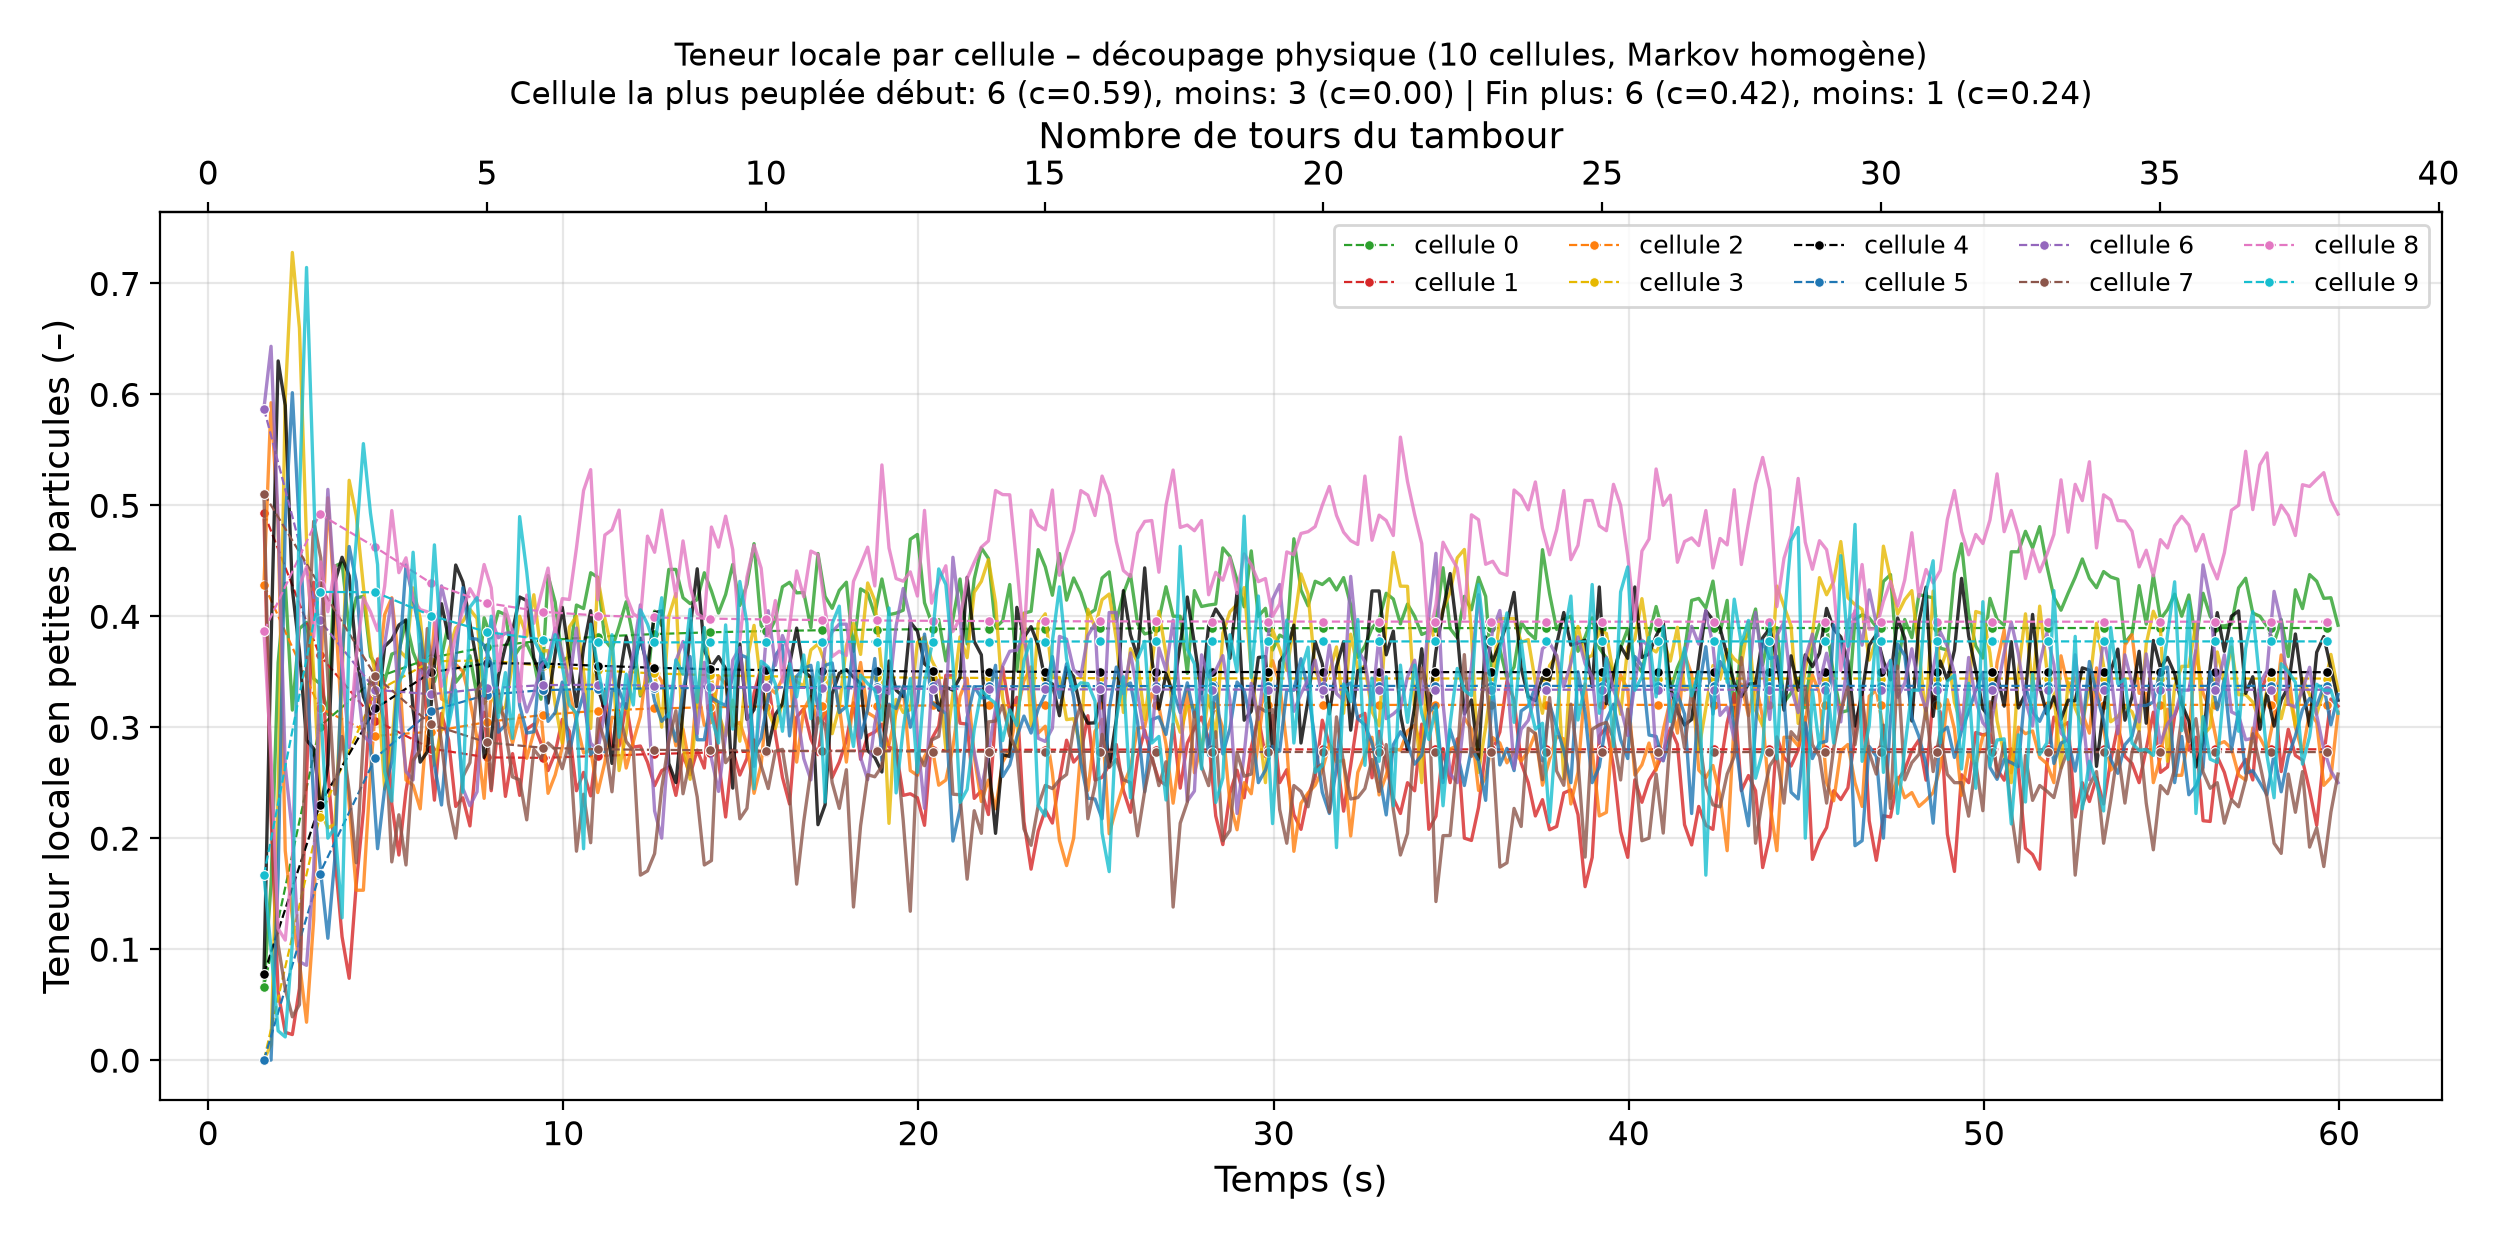
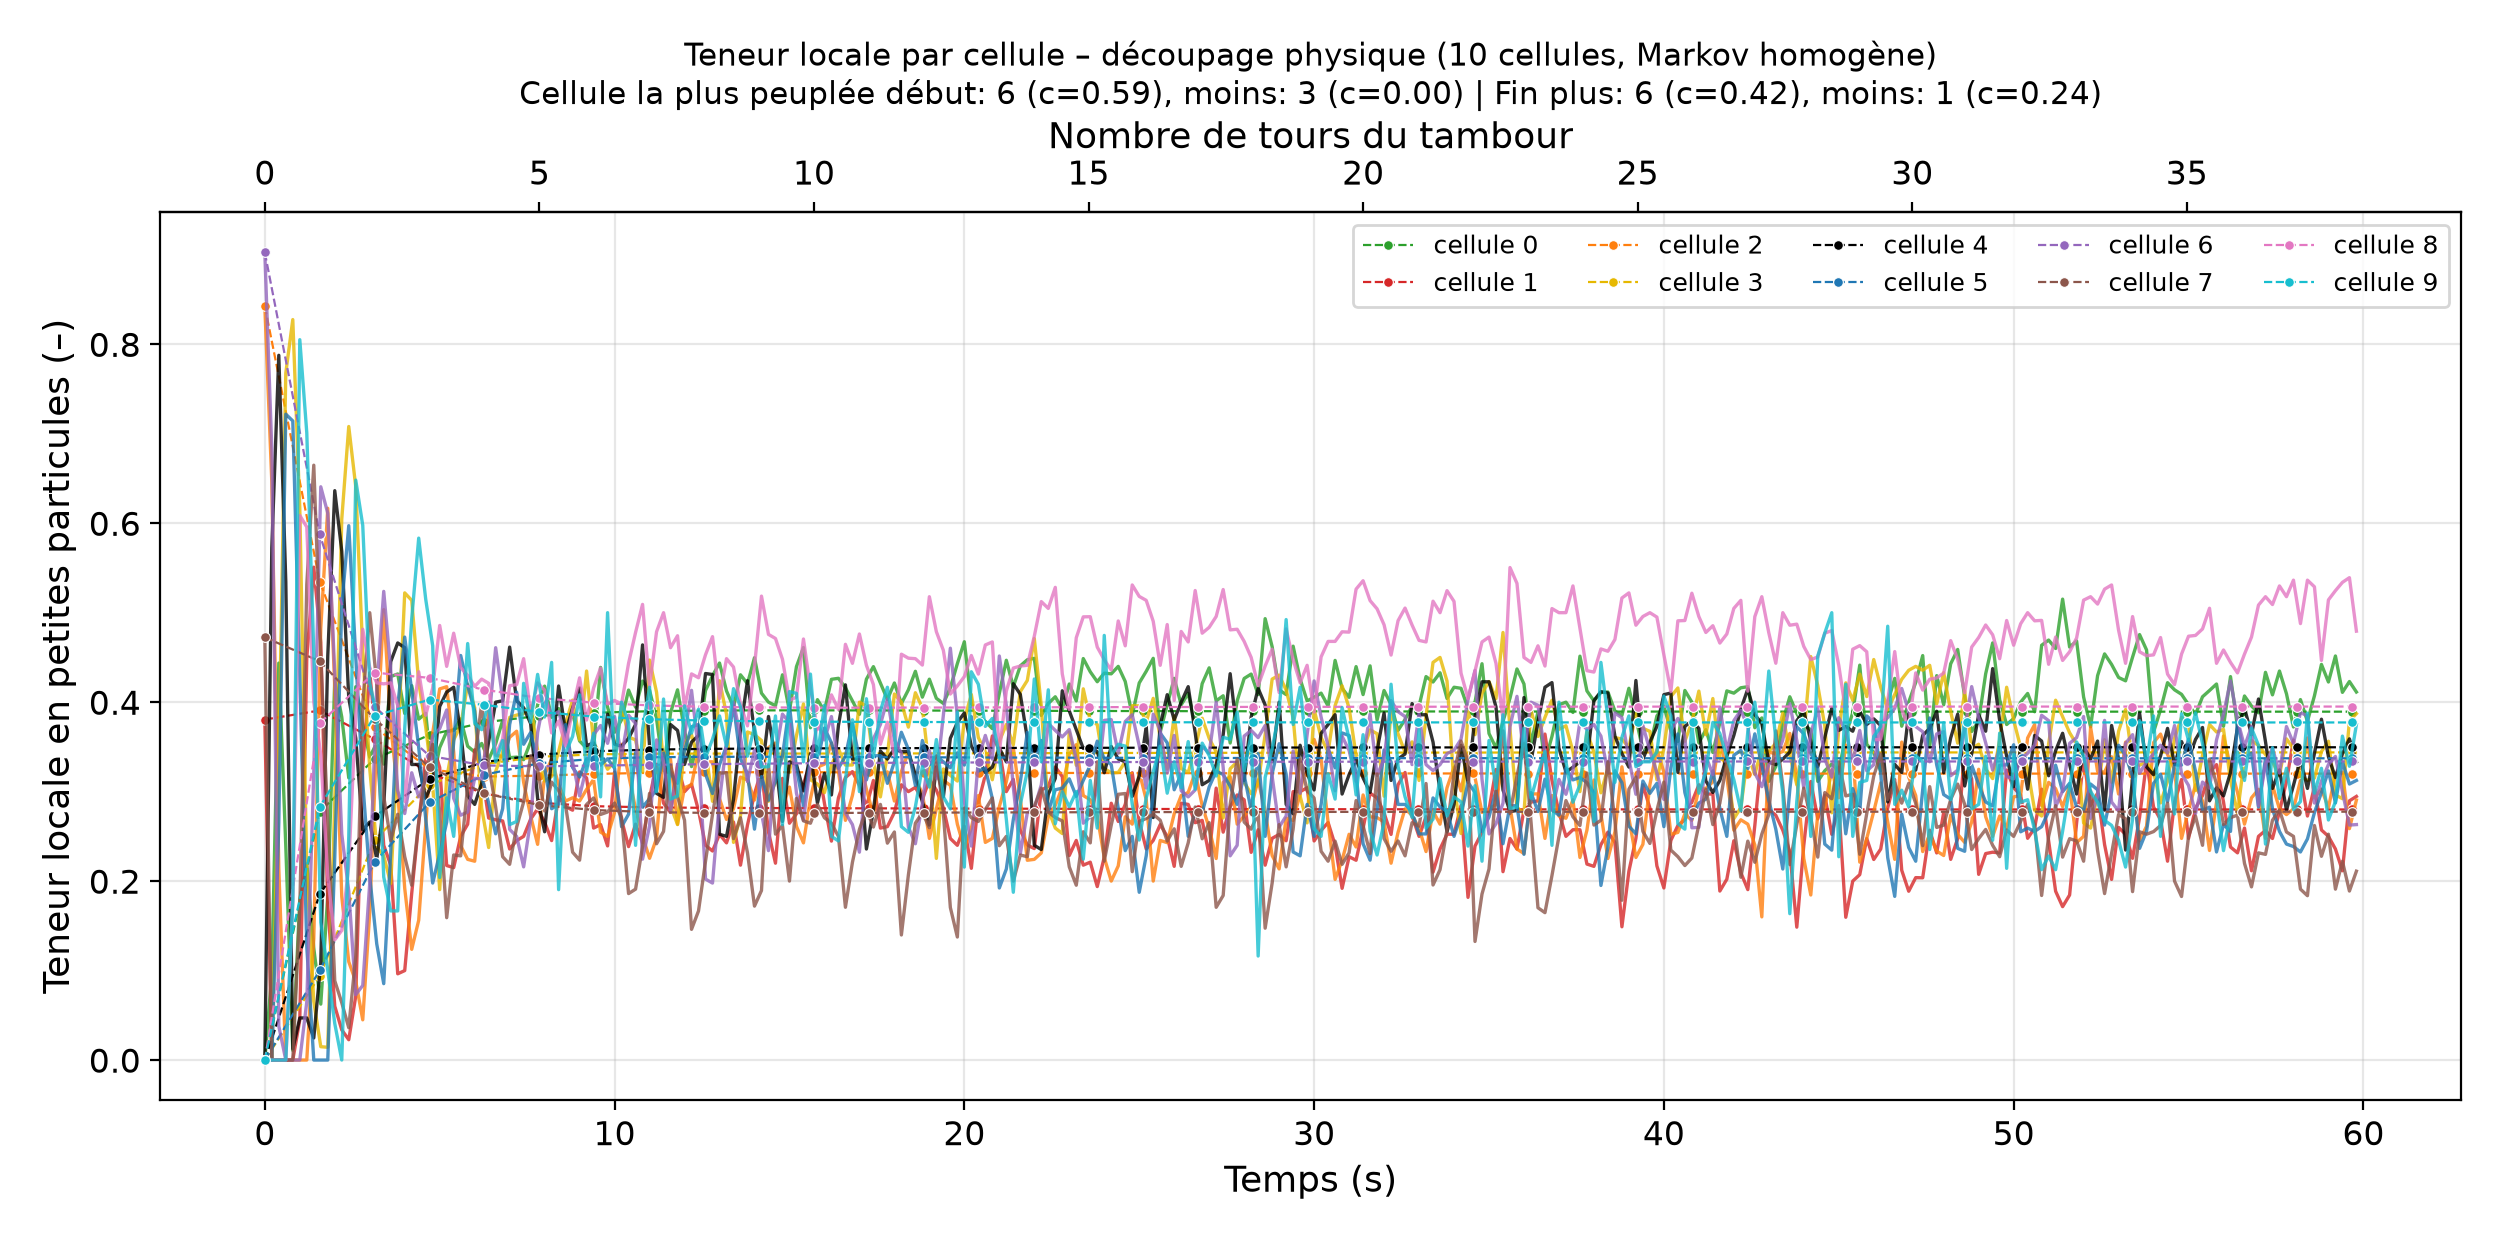
feat: teneurs chaines inhomogenes pour toutes methodes + prediction depuis 0s
- etude_librairie: markov_rsd et markov_traj default start_pred=0, modele entraine depuis START=1.57s, t_dem depuis 0s
- chaines_inhomogenes: genere teneur_{methode}_inhomogene_lib.png pour cartesien, cylindrique, voronoi, physique (prediction depuis 0s, 5 matrices)
- generate_teneur_per_method: ajoute build_P_blocks et markov_traj_inhomogeneous, genere pour chaque methode:
  * teneur_{methode}_inhomogene.png
  * nombre_petites/grandes/total_{methode}_inhomogene.png
  * comptage par espece puis total (petites 4mm, grandes 8mm, total) homogene et inhomogene
- prediction DEM et Markov depuis t=0s partout, modele entraine depuis START=1.57s

diff --git a/postprocessing/generate_teneur_per_method.py b/postprocessing/generate_teneur_per_method.py
@@ -43,6 +43,7 @@ from dem_mcm_coupling.run_sweep import (
 from postprocessing.metrics import (
     clean_transition_matrix,
     propagate_markov,
+    propagate_markov_inhomogeneous,
     concentration_from_S,
 )
 
@@ -196,6 +197,36 @@ class EtudeMethode:
             S0 = self.S_matrices[sp][row0].astype(float)
             traj, t_mk = propagate_markov(
                 S0, P_clean, self.times, start_pred, config.tau, activated)
+            trajs[sp], acts[sp] = traj, activated
+        return trajs, t_mk, acts
+
+    def build_P_blocks(self, config, species):
+        mask = (np.ones(N_PARTICLES_PER_TIMESTEP, bool) if species == "all"
+                else self.species_masks[species])
+        blocks = []
+        for k in range(config.nlt):
+            cfg_k = ExperimentConfig(
+                method=config.method, nlt=1, tau=config.tau,
+                step=config.step, dt=config.dt,
+                start_index=config.start_index + k * (config.step + config.tau),
+            )
+            pairs = _build_pairs(cfg_k, self.timestep_dict, self.idx_to_row)
+            if not pairs:
+                break
+            prev, curr = self._accumulate(pairs, mask)
+            blocks.append(compute_P_matrix_torch(prev, curr, self.n_states, "cpu").cpu().numpy())
+        return np.array(blocks)
+
+    def markov_traj_inhomogeneous(self, config, start_pred=0):
+        trajs, acts = {}, {}
+        for sp in ("small", "large"):
+            P_blocks = np.nan_to_num(self.build_P_blocks(config, sp), nan=0.0)
+            _, activated = clean_transition_matrix(P_blocks[0])
+            row0 = np.searchsorted(self.times, start_pred)
+            S0 = self.S_matrices[sp][row0].astype(float)
+            traj, t_mk = propagate_markov_inhomogeneous(
+                S0, P_blocks, self.times, start_pred, config.tau,
+                activated, step=config.step, nlt=len(P_blocks))
             trajs[sp], acts[sp] = traj, activated
         return trajs, t_mk, acts
 
@@ -367,6 +398,63 @@ if __name__ == "__main__":
         plt.close(fig)
         print(f"  -> {key} comptage par espece + total ok")
 
-    print("\n✅ Figures teneur + comptage par espèce + total générées pour toutes méthodes")
+        # --- TENEUR INHOMOGENE POUR TOUTES METHODES ---
+        # Model entraine depuis START, prediction depuis 0s, chaines inhomogenes avec blocs espaces de 7 tours
+        STEP_INH = 6 * TAU
+        NLT_INH = int((N_T - START) // (STEP_INH + TAU))
+        cfg_inh = config_for(et.method, nlt=NLT_INH, step=STEP_INH)
+        trajs_inh, t_mk_inh, acts_inh = et.markov_traj_inhomogeneous(cfg_inh, start_pred=0)
+        n_inh = min(len(trajs_inh["small"]), len(trajs_inh["large"]))
+        C_mk_inh = concentration_from_S(trajs_inh["small"][:n_inh], trajs_inh["large"][:n_inh])
+        N_mk_inh_small = trajs_inh["small"][:n_inh]
+        N_mk_inh_large = trajs_inh["large"][:n_inh]
+        N_mk_inh_total = N_mk_inh_small + N_mk_inh_large
+        # DEM reference depuis 0
+        t_dem_idx_inh = np.arange(0, N_T, 20)
+        rows_dem_inh = np.searchsorted(et.times, t_dem_idx_inh)
+        C_dem_inh = concentration_from_S(et.S_matrices["small"][rows_dem_inh], et.S_matrices["large"][rows_dem_inh])
+
+        # Teneur inhomogene
+        fig, ax = plt.subplots(figsize=(12.5, 6.2))
+        for c in cells:
+            col = CELL_COLORS[int(c) % len(CELL_COLORS)]
+            ax.plot(t_dem_idx_inh/100, C_dem_inh[:, c], "-", color=col, lw=1.2, alpha=0.8)
+            ax.plot(t_mk_inh[:n_inh]/100, C_mk_inh[:, c], "o--", color=col, ms=3.5, lw=0.8,
+                    markeredgecolor="white", markeredgewidth=0.4, label=f"cellule {c}")
+        ax.set_xlabel("Temps (s)")
+        ax.set_ylabel("Teneur locale en petites particules (–) – inhomogène")
+        add_tours_axis(ax)
+        ax.grid(alpha=0.3)
+        ax.set_title(f"Teneur locale par cellule – découpage {et.nom.lower()} – chaîne inhomogène (10 cellules, prédiction depuis 0s, {NLT_INH} matrices)", fontsize=11)
+        ax.legend(ncol=5, fontsize=9, loc="upper right")
+        fig.tight_layout()
+        fig.savefig(FIGDIR / f"teneur_{key}_inhomogene.png", dpi=200)
+        fig.savefig(FIGDIR / f"teneur_{key}_inhomogene_lib.png", dpi=200)
+        plt.close(fig)
+
+        # Comptage par espece inhomogene
+        for sp_name, dem_arr, mk_arr, ylabel in [
+            ("petites", et.S_matrices["small"][rows_dem_inh], N_mk_inh_small, "Nombre petites (4mm) – inhomogène"),
+            ("grandes", et.S_matrices["large"][rows_dem_inh], N_mk_inh_large, "Nombre grandes (8mm) – inhomogène"),
+            ("total", et.S_matrices["small"][rows_dem_inh]+et.S_matrices["large"][rows_dem_inh], N_mk_inh_total, "Nombre total – inhomogène"),
+        ]:
+            fig, ax = plt.subplots(figsize=(12.5, 6.2))
+            for c in cells:
+                col = CELL_COLORS[int(c) % len(CELL_COLORS)]
+                ax.plot(t_dem_idx_inh/100, dem_arr[:, c], "-", color=col, lw=1.2, alpha=0.8)
+                ax.plot(t_mk_inh[:n_inh]/100, mk_arr[:, c], "o--", color=col, ms=3.5, lw=0.8,
+                        markeredgecolor="white", markeredgewidth=0.4, label=f"cellule {c}")
+            ax.set_xlabel("Temps (s)")
+            ax.set_ylabel(ylabel)
+            add_tours_axis(ax)
+            ax.grid(alpha=0.3)
+            ax.set_title(f"{ylabel} par cellule – {et.nom.lower()} – inhomogène – prédiction depuis 0s", fontsize=11)
+            ax.legend(ncol=5, fontsize=9, loc="upper right")
+            fig.tight_layout()
+            fig.savefig(FIGDIR / f"nombre_{sp_name}_{key}_inhomogene.png", dpi=200)
+            plt.close(fig)
+        print(f"  -> {key} teneur + comptage inhomogène ok")
+
+    print("\n✅ Figures teneur + comptage par espèce + total (homogène + inhomogène) générées pour toutes méthodes – prédiction depuis 0s")
 
 

diff --git a/postprocessing/etudes_librairie.py b/postprocessing/etudes_librairie.py
@@ -723,10 +723,36 @@ def chaines_inhomogenes(etudes):
         for k, (eh, ei) in resume.items():
             f.write(f"{k:<14}{eh:12.4f}{ei:12.4f}\n")
 
-    # teneur locale par cellule, chaîne inhomogène (physique)
+    # teneur locale par cellule, chaîne inhomogène – pour toutes méthodes (demande utilisateur)
+    for key_ten, et_ten in etudes.items():
+        cfg_inh_t = config_for(et_ten.method, nlt=NLT_INH, step=STEP_INH)
+        trajs_t, t_mk_t, acts_t = et_ten.markov_traj_inhomogeneous(cfg_inh_t, start_pred=0)
+        act_t = acts_t["small"] & acts_t["large"]
+        cells_t = np.where(act_t)[0]
+        n_t = min(len(trajs_t["small"]), len(trajs_t["large"]))
+        C_mk_t = concentration_from_S(trajs_t["small"][:n_t], trajs_t["large"][:n_t])
+        t_dem_idx_t = np.arange(0, N_T, 20)
+        rows_dem_t = np.searchsorted(et_ten.times, t_dem_idx_t)
+        C_dem_t = concentration_from_S(et_ten.S_matrices["small"][rows_dem_t],
+                                     et_ten.S_matrices["large"][rows_dem_t])
+        fig_t, ax_t = plt.subplots(figsize=(12.5, 6.2))
+        _plot_superpose(ax_t, t_dem_idx_t / 100, C_dem_t, t_mk_t[:n_t] / 100, C_mk_t, cells_t)
+        ax_t.set_xlabel("Temps (s)")
+        ax_t.set_ylabel("Teneur locale en petites particules (–) – inhomogène")
+        add_tours_axis(ax_t)
+        ax_t.grid(alpha=0.3)
+        ax_t.set_title(f"Teneur locale par cellule – {et_ten.nom.lower()} – chaîne inhomogène – prédiction depuis 0s")
+        ax_t.legend(ncol=5, fontsize=10, loc="upper right")
+        fig_t.tight_layout()
+        fig_t.savefig(FIGDIR / f"teneur_{key_ten}_inhomogene_lib.png", dpi=200)
+        fig_t.savefig(FIGDIR / f"teneur_{key_ten}_inhomogene.png", dpi=200)
+        plt.close(fig_t)
+        print(f"  teneur inhomogène {key_ten} ok")
+
+    # garder aussi l'ancien nom pour compatibilité physique
     et = etudes["physique"]
     cfg_inh = config_for(et.method, nlt=NLT_INH, step=STEP_INH)
-    trajs, t_mk, acts = et.markov_traj_inhomogeneous(cfg_inh)
+    trajs, t_mk, acts = et.markov_traj_inhomogeneous(cfg_inh, start_pred=0)
     act = acts["small"] & acts["large"]
     cells = np.where(act)[0]
     n = min(len(trajs["small"]), len(trajs["large"]))
@@ -745,7 +771,7 @@ def chaines_inhomogenes(etudes):
     fig.tight_layout()
     fig.savefig(FIGDIR / "teneur_physique_inhomogene_lib.png", dpi=200)
     plt.close(fig)
-    print("chaînes inhomogènes ok – prediction depuis 0, modele entraine depuis START", resume)
+    print("chaînes inhomogènes ok – prediction depuis 0, modele entraine depuis START – teneur inhomogène pour toutes méthodes", resume)
     return resume
 
 
